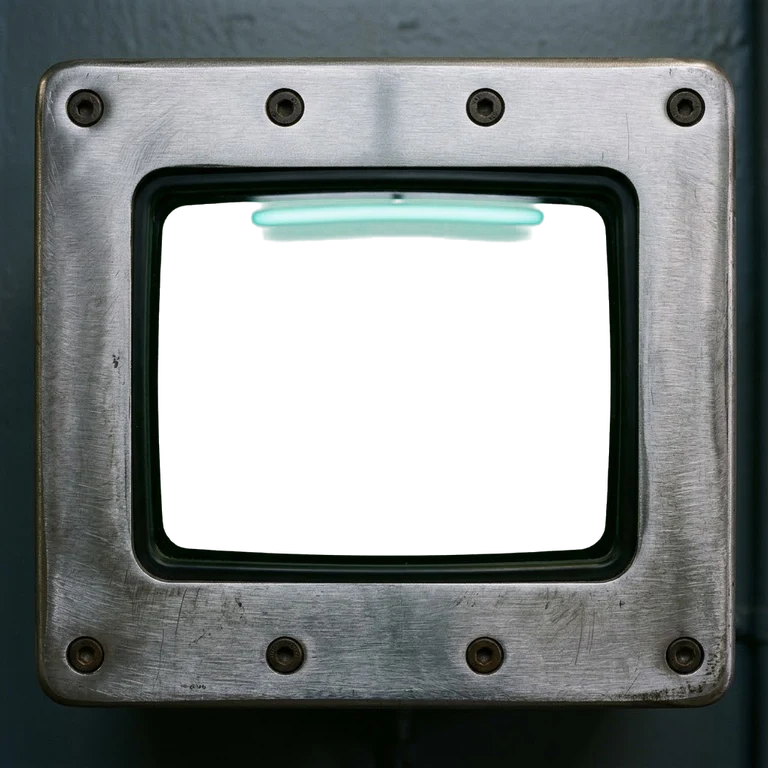
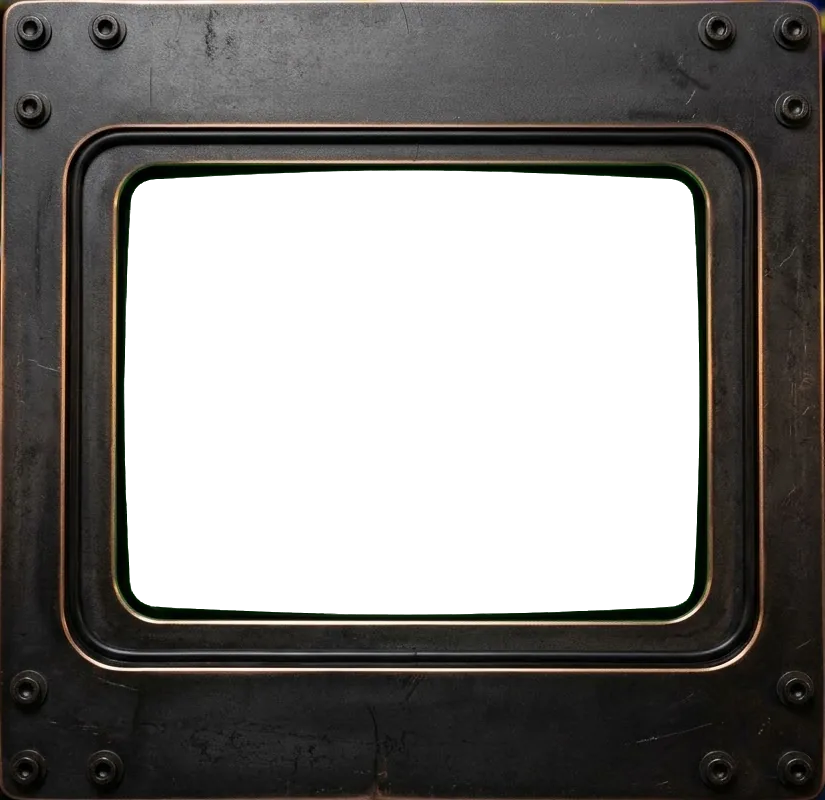
borne : skin métal refait en acier bruni à reflets chauds (flanc, enseigne, grilles, cadre, panneau, porte), enseigne ambre, butée et molettes assombries (skin-metal-*.webp, borne-cabinet.css)
Claude-Session: https://claude.ai/code/session_01Ba3adjWJSNzDCwtJLb2mEv

diff --git a/borne/borne-cabinet.css b/borne/borne-cabinet.css
@@ -463,7 +463,7 @@ html.borne[data-skin=metal]:not([data-mode=device]):not([data-habit=fauneye]) .w
 html.borne[data-skin=metal]:not([data-mode=device]):not([data-habit=fauneye]) .bar .brand{background:#1f3d5c url(skin-metal-fronton.webp) center/100% 100% no-repeat;color:#0a1622;text-shadow:0 1px 0 rgba(255,255,255,.6),0 0 16px rgba(200,230,255,.7);box-shadow:0 6px 18px rgba(0,0,0,.5)}
 html.borne[data-skin=metal]:not([data-mode=device]):not([data-habit=fauneye]) .bar .dock{background:#3a3d41 url(skin-metal-grille.webp) center/100% 100% no-repeat;box-shadow:0 6px 14px rgba(0,0,0,.45)}
 html.borne[data-skin=metal]:not([data-mode=device]):not([data-habit=fauneye]) .bar .dock #radio-toggle{background:rgba(8,10,12,.8);border-radius:4px}
-html.borne[data-skin=metal]:not([data-mode=device]):not([data-habit=fauneye]) .b-bezel .b-screen{border-style:solid;border-width:clamp(20px,3.6vh,36px) clamp(13px,2.1vw,22px);border-image:url(skin-metal-cadre.webp) 198 159 214 158 stretch;border-radius:0}
+html.borne[data-skin=metal]:not([data-mode=device]):not([data-habit=fauneye]) .b-bezel .b-screen{border-style:solid;border-width:clamp(20px,3.6vh,36px) clamp(13px,2.1vw,22px);border-image:url(skin-metal-cadre.webp) 171 126 186 124 stretch;border-radius:0}
 html.borne[data-skin=metal]:not([data-mode=device]):not([data-habit=fauneye]) .b-panel{background:#3a3d41 url(skin-metal-panneau.webp) center/cover no-repeat}
 html.borne[data-skin=metal] .b-door{background:none;box-shadow:none;width:auto;max-width:calc(100% - 24px);gap:22px}
 html.borne[data-skin=metal] .b-slot{width:clamp(220px,36vw,300px);aspect-ratio:1024/559;padding:0;border-radius:4px;background:url(skin-metal-porte.webp) center/100% 100% no-repeat;box-shadow:0 6px 14px rgba(0,0,0,.5)}
@@ -883,7 +883,7 @@ html.borne .b-row2 .menu a.b-up{animation:bkeyup .38s cubic-bezier(.2,1.8,.4,1)}
 @font-face{font-family:'Bungee';src:url(font-bungee.woff2) format('woff2');font-display:swap}
 @font-face{font-family:'Bungee Inline';src:url(font-bungee-inline.woff2) format('woff2');font-display:swap}
 html.borne{--sg-fill:#fff1c2;--sg-line:#5a1206;--sg-x1:#c9420f;--sg-x2:#7a1d06;--sg-glow:rgba(255,150,40,.75);--sg-bulb:#ffd36e}
-html.borne[data-skin=metal]{--sg-fill:#eaf8ff;--sg-line:#0b2236;--sg-x1:#2a7fb8;--sg-x2:#103a5c;--sg-glow:rgba(120,210,255,.75);--sg-bulb:#bfeaff}
+html.borne[data-skin=metal]{--sg-fill:#ffecc4;--sg-line:#3a1a06;--sg-x1:#c25a12;--sg-x2:#6a2a06;--sg-glow:rgba(255,140,40,.75);--sg-bulb:#ffcf7a}
 html.borne[data-skin="1960"]{--sg-fill:#fff6dc;--sg-line:#6a0d06;--sg-x1:#d6261a;--sg-x2:#7c0f08;--sg-glow:rgba(255,90,60,.7);--sg-bulb:#ffe7a8}
 html.borne .bar .brand{position:relative;display:grid!important;place-items:center;text-align:center!important;padding:6px 14px!important;overflow:hidden;
   font-family:'Bungee',var(--f-sign),Impact,sans-serif!important;font-weight:400!important;font-size:clamp(1.15rem,min(4.4vh,2.7vw),2.7rem)!important;letter-spacing:.03em!important;line-height:1!important;
@@ -986,3 +986,4 @@ html.borne[data-skin=metal] .b-butee{background-image:url(butee-metal.webp)}
 /* ---------- la manette à l'échelle des touches : un peu plus haute qu'elles ---------- */
 html.borne .b-panel .cabinets>.b-stick,html.borne .b-panel .cabinets>.b-stick i{width:clamp(70px,6.6vw,140px)!important;height:auto!important;aspect-ratio:76/100!important}
 @media (max-width:700px){html.borne .b-panel .cabinets>.b-stick,html.borne .b-panel .cabinets>.b-stick i{width:clamp(66px,22vw,100px)!important}}
+html.borne[data-skin=metal] .b-knobs{filter:brightness(.55) sepia(.4)}
